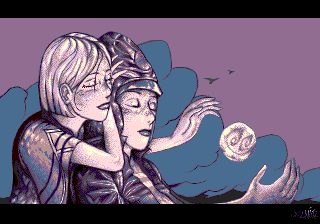
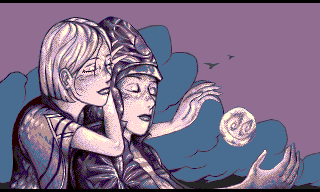
- Draft slideshow project, resource files, proof of concept is working.

diff --git a/slideshow/src/main.c b/slideshow/src/main.c
@@ -14,6 +14,7 @@ u16 vramIndex = TILE_USERINDEX;
 
 static void displayFullScreenPicture(){
 	s16 i,j,k;
+	u16 tmp_tile_index;
 
 	SYS_disableInts();
 
@@ -33,36 +34,85 @@ static void displayFullScreenPicture(){
 
 	SYS_enableInts();
 
+	// vramIndex = 0;
+	VDP_waitDMACompletion();
+
 	while (1){
+		/* Pic 0 */
+		// tmp_tile_index = curTileInd;
 		SYS_disableInts();
 		VDP_drawImageEx(APLAN, &pic00, TILE_ATTR_FULL(PAL0, TRUE, FALSE, FALSE, vramIndex), 0, 0, TRUE, TRUE);
 		SYS_enableInts();
 		RSE_pause(RSE_FRAMES(1*60));
 
-		// k = RSE_FRAMES(240 - 224);
-		// for(i = 0; i < k; i++)
-		// {
-		// 	VDP_waitVSync();
-		// 	// j = easing_table[i * 1024 / k];
-		// 	// j = (j * k) >> 11;
-		// 	VDP_setVerticalScroll(PLAN_A, k);
-		// }
-
 		RSE_pause(RSE_FRAMES(2*60));
 
 		VDP_fadeOut(1, 63, 16, FALSE);
-		RSE_turn_screen_to_black();
-		VDP_clearPlan(APLAN, 0);
-		VDP_clearPlan(BPLAN, 0);		
+		RSE_turn_screen_to_black();		
+		VDP_waitDMACompletion();
+		for(i = 0; i  < 224 >> 3; i++)
+		{
+			VDP_waitVSync();
+			RSE_clearTileRowB(i);
+			RSE_clearTileRowA(i);
+		}		
 
+		/* Pic 1 */
+
+		// curTileInd = tmp_tile_index;
+		SYS_disableInts();
+		VDP_drawImageEx(APLAN, &pic01a, TILE_ATTR_FULL(PAL0, TRUE, FALSE, FALSE, vramIndex), 0, 12 >> 3, TRUE, TRUE);
+		VDP_waitDMACompletion();
+		VDP_drawImageEx(BPLAN, &pic01b, TILE_ATTR_FULL(PAL1, TRUE, FALSE, FALSE, vramIndex + pic01a.tileset->numTile), 0, 12 >> 3, TRUE, TRUE);
+		SYS_enableInts();
+
+		RSE_pause(RSE_FRAMES(3*60));
+		VDP_fadeOut(1, 63, 16, FALSE);
+		RSE_turn_screen_to_black();		
+		VDP_waitDMACompletion();
+		for(i = 0; i  < 224 >> 3; i++)
+		{
+			VDP_waitVSync();
+			RSE_clearTileRowB(i);
+			RSE_clearTileRowA(i);
+		}		
+
+		/* Pic 2 */
+
+		// curTileInd = tmp_tile_index;
+		SYS_disableInts();
+		VDP_drawImageEx(APLAN, &pic02a, TILE_ATTR_FULL(PAL0, TRUE, FALSE, FALSE, vramIndex), (320 - 256) >> 4, 0, TRUE, TRUE);
+		VDP_waitDMACompletion();
+		VDP_drawImageEx(BPLAN, &pic02b, TILE_ATTR_FULL(PAL1, TRUE, FALSE, FALSE, vramIndex + pic02a.tileset->numTile), (320 - 256) >> 4, 0, TRUE, TRUE);
+		SYS_enableInts();
+
+		RSE_pause(RSE_FRAMES(3*60));
+		VDP_fadeOut(1, 63, 16, FALSE);
+		RSE_turn_screen_to_black();		
+		VDP_waitDMACompletion();
+		for(i = 0; i  < 224 >> 3; i++)
+		{
+			VDP_waitVSync();
+			RSE_clearTileRowB(i);
+			RSE_clearTileRowA(i);
+		}		
+
+		/* Pic 9 */
+
+		// curTileInd = tmp_tile_index;
 		SYS_disableInts();
 		VDP_drawImageEx(APLAN, &pic09, TILE_ATTR_FULL(PAL0, TRUE, FALSE, FALSE, vramIndex), 0, 0, TRUE, TRUE);
 		SYS_enableInts();
 
 		RSE_pause(RSE_FRAMES(3*60));
 		VDP_fadeOut(1, 63, 16, FALSE);
-		RSE_turn_screen_to_black();
-		VDP_clearPlan(APLAN, 0);
-		VDP_clearPlan(BPLAN, 0);	
+		RSE_turn_screen_to_black();		
+		VDP_waitDMACompletion();
+		for(i = 0; i  < 224 >> 3; i++)
+		{
+			VDP_waitVSync();
+			RSE_clearTileRowB(i);
+			RSE_clearTileRowA(i);
+		}		
 	}
 }

diff --git a/slideshow/src/transition_helper.c b/slideshow/src/transition_helper.c
@@ -1,6 +1,6 @@
 #include "genesis.h"
 
-const s16 tile_sc_table[] =  { 	0, 0, 0, 0, 0, 0, 0, 0, 0, 0, 0, 0, 0, 0, 0, 0, 
+s16 tile_sc_table[] =  { 	0, 0, 0, 0, 0, 0, 0, 0, 0, 0, 0, 0, 0, 0, 0, 0, 
 								0, 0, 0, 0, 0, 0, 0, 0, 0, 0, 0, 0, 0, 0, 0, 0, 
 								0, 0, 0, 0, 0, 0, 0, 0, 0, 0, 0, 0, 0, 0, 0, 0, 
 								0, 0, 0, 0, 0, 0, 0, 0, 0, 0, 0, 0, 0, 0, 0, 0 };

diff --git a/slideshow/src/res/gfx.h b/slideshow/src/res/gfx.h
@@ -2,6 +2,10 @@
 #define _GFX_H_
 
 extern const Image pic00;
+extern const Image pic01a;
+extern const Image pic01b;
+extern const Image pic02a;
+extern const Image pic02b;
 extern const Image pic09;
 
 #endif // _GFX_H_
